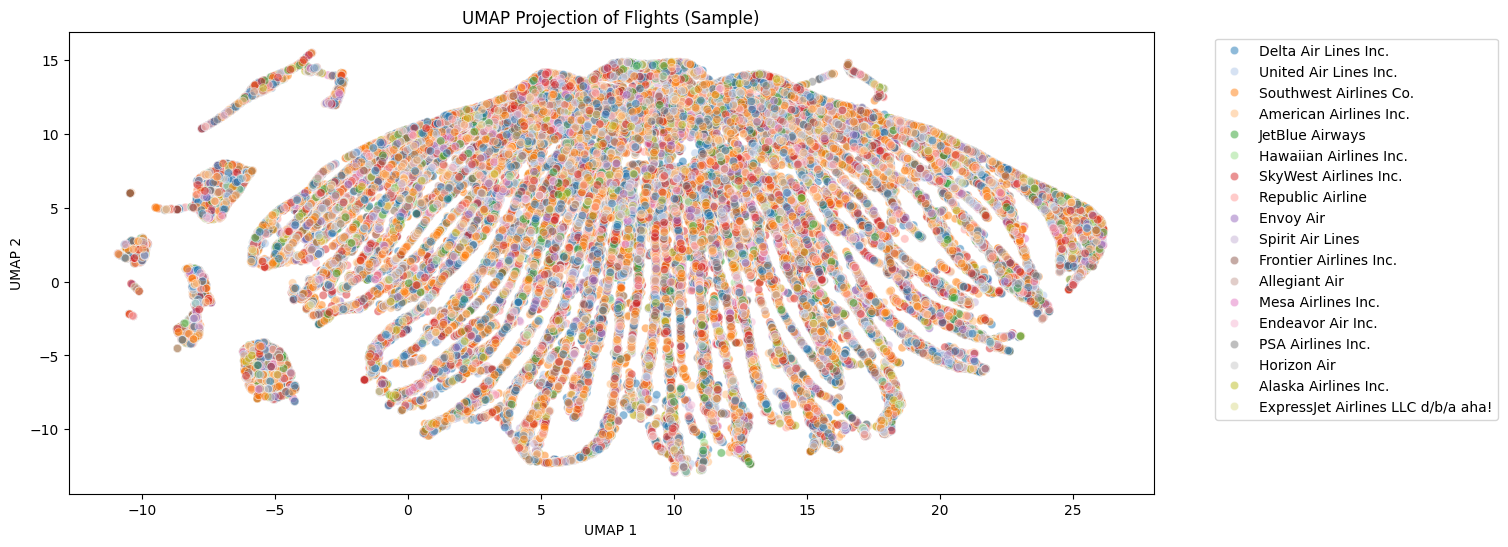
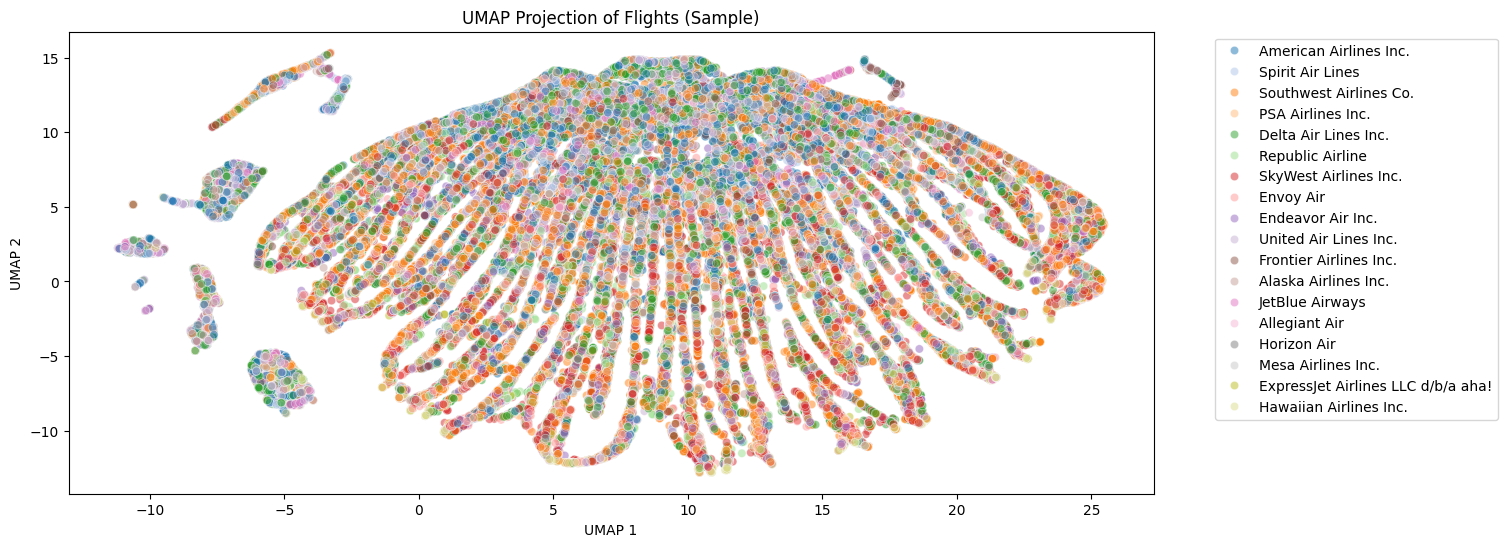
fixing minor stuff

diff --git a/ProjectCodes/PythonProject/src/hypothesis.py b/ProjectCodes/PythonProject/src/hypothesis.py
@@ -12,7 +12,7 @@ class HypothesisTester:
         df = self.df_hyp.dropna(subset=['ARR_DELAY', 'DISTANCE'])
         corr, p = pearsonr(df['DISTANCE'], df['ARR_DELAY'])
         print("H1: Distance vs Arrival Delay")
-        print(f"Pearson correlation coefficient: {corr:.3f}, p-value: {p:.3f}")
+        print(f"Pearson correlation coefficient: {corr:.3f}, p-value: {p:.2e}")
         if p < 0.05:
             if abs(corr) < 0.05:
                 print("✅ Statistically significant but correlation is extremely weak; practically negligible.\n")
@@ -27,9 +27,9 @@ class HypothesisTester:
         airlines = self.config['hypothesis']['ttest_airlines']
         a = self.df_hyp.loc[self.df_hyp['AIRLINE'] == airlines[0], 'ARR_DELAY'].dropna()
         b = self.df_hyp.loc[self.df_hyp['AIRLINE'] == airlines[1], 'ARR_DELAY'].dropna()
-        t_stat, p = ttest_ind(a, b)
+        t_stat, p = ttest_ind(a, b, equal_var=False)
         print(f"H2: {airlines[0]} vs {airlines[1]} mean arrival delays")
-        print(f"T-statistic: {t_stat:.3f}, p-value: {p:.3f}")
+        print(f"T-statistic: {t_stat:.3f}, p-value: {p:.2e}")
         if p < 0.05:
             print(f"✅ Significant difference in mean delays between {airlines[0]} and {airlines[1]}.\n")
         else:
@@ -42,7 +42,7 @@ class HypothesisTester:
                   for a in self.df_hyp['AIRLINE'].unique()]
         f_stat, p = f_oneway(*groups)
         print("H3: ANOVA across all airlines")
-        print(f"F-statistic: {f_stat:.3f}, p-value: {p:.3f}")
+        print(f"F-statistic: {f_stat:.3f}, p-value: {p:.2e}")
         if p < 0.05:
             print("✅ Significant differences exist in delays between airlines.\n")
         else:
@@ -55,7 +55,7 @@ class HypothesisTester:
         df = self.df_hyp.dropna(subset=[weather_col, 'ARR_DELAY'])
         corr, p = pearsonr(df[weather_col], df['ARR_DELAY'])
         print(f"H4: {weather_col} vs Arrival Delay")
-        print(f"Pearson correlation coefficient: {corr:.3f}, p-value: {p:.3f}")
+        print(f"Pearson correlation coefficient: {corr:.3f}, p-value: {p:.2e}")
         if p < 0.05:
             print("✅ Weather-related delays significantly impact arrival delays.\n")
         else:
@@ -70,7 +70,7 @@ class HypothesisTester:
                        for h in sorted(df['DEP_HOUR'].unique())]
         f_stat, p = f_oneway(*hour_groups)
         print("H5: Departure Hour vs Arrival Delay")
-        print(f"F-statistic: {f_stat:.3f}, p-value: {p:.3f}")
+        print(f"F-statistic: {f_stat:.3f}, p-value: {p:.2e}")
         if p < 0.05:
             print("✅ Significant differences in mean arrival delays across departure hours.\n")
         else:

diff --git a/ProjectCodes/PythonProject/src/pca_umap.py b/ProjectCodes/PythonProject/src/pca_umap.py
@@ -45,7 +45,7 @@ class DimensionalityReducer:
         df_pca['AIRLINE'] = self.df_eda.loc[features_for_dr.index, 'AIRLINE'].values
 
         # Scatterplot
-        print("Plotting PCA projection...")
+        print("Plotting PCA Scatter projection...")
         plt.figure(figsize=(14,6))
         sns.scatterplot(
             data=df_pca,
@@ -60,6 +60,22 @@ class DimensionalityReducer:
         plt.ylabel("Principal Component 2")
         plt.legend(bbox_to_anchor=(1.05,1), loc='upper left')
         plt.savefig(os.path.join(self.output_dir, "pca_projection.png"), bbox_inches='tight')
+        plt.close()
+
+        # Scree
+        print("Plotting PCA Scree plot...")
+        plt.figure(figsize=(6, 4))
+        plt.bar(
+            range(1, len(pca.explained_variance_ratio_) + 1),
+            pca.explained_variance_ratio_,
+            color='steelblue'
+        )
+        plt.xticks(range(1, len(pca.explained_variance_ratio_) + 1),
+                   [f'PC{i}' for i in range(1, len(pca.explained_variance_ratio_) + 1)])
+        plt.xlabel("Principal Component")
+        plt.ylabel("Explained Variance Ratio")
+        plt.title("PCA Scree Plot")
+        plt.savefig(os.path.join(self.output_dir, "pca_scree.png"), bbox_inches='tight')
         plt.close()
 
         # Print explained variance

diff --git a/ProjectCodes/PythonProject/src/preprocessing.py b/ProjectCodes/PythonProject/src/preprocessing.py
@@ -22,7 +22,6 @@ class DataPreprocessor:
         """Load CSV and make a copy for EDA with error handling."""
         try:
             self.df = pd.read_csv(self.csv_path)
-            self.df_eda = self.df.copy()
         except FileNotFoundError:
             print(f"Error: CSV file not found at {self.csv_path}. Please check the path.")
         except Exception as e:
@@ -38,8 +37,9 @@ class DataPreprocessor:
         self.df = self.df[(self.df['DISTANCE'] >= self.min_distance) &
                           (self.df['DISTANCE'] <= self.max_distance)].reset_index(drop=True)
 
-        # Copy for hypothesis testing
+        # Copy for eda and hyp
         self.df_hyp = self.df.copy()
+        self.df_eda = self.df.copy() # Only moved here at end of project
 
     # -------------------- COL CLEANING --------------------
     def drop_future_columns(self):

diff --git a/ProjectCodes/PythonProject/src/feature_engineering.py b/ProjectCodes/PythonProject/src/feature_engineering.py
@@ -15,7 +15,7 @@ class FeatureEngineer:
         for col in onehot_cols:
             encoder = OneHotEncoder(sparse_output=False)
             encoded = encoder.fit_transform(self.df[[col]])
-            encoded_df = pd.DataFrame(encoded, columns=encoder.get_feature_names_out([col]))
+            encoded_df = pd.DataFrame(encoded, columns=encoder.get_feature_names_out([col]),index=self.df.index)
 
             encoded_df.columns = [c.replace(col, f"encoded_{col.lower()}") for c in encoded_df.columns]
             self.df = pd.concat([self.df, encoded_df], axis=1)

diff --git a/ProjectCodes/PythonProject/main.py b/ProjectCodes/PythonProject/main.py
@@ -53,7 +53,7 @@ def main():
             if preprocessor.df_eda is None:
                 print("⚠ Please run preprocessing first! (Loads the Dataset)")
             else:
-                hyp = HypothesisTester(preprocessor.df_eda, config)
+                hyp = HypothesisTester(preprocessor.df_hyp, config)
                 hyp.run_all()
         elif choice == "5":
             if preprocessor.df is None:

diff --git a/ProjectCodes/PythonProject/src/model.py b/ProjectCodes/PythonProject/src/model.py
@@ -91,7 +91,7 @@ class ModelTester:
         plt.xlabel("Importance")
         plt.title("Top Features - Random Forest")
         plt.savefig(self.rf_save_path, bbox_inches='tight')
-        plt.show()
+        plt.close()
         print(f"Feature importance plot saved to: {self.rf_save_path}")
 
         self.rf_model = rf
